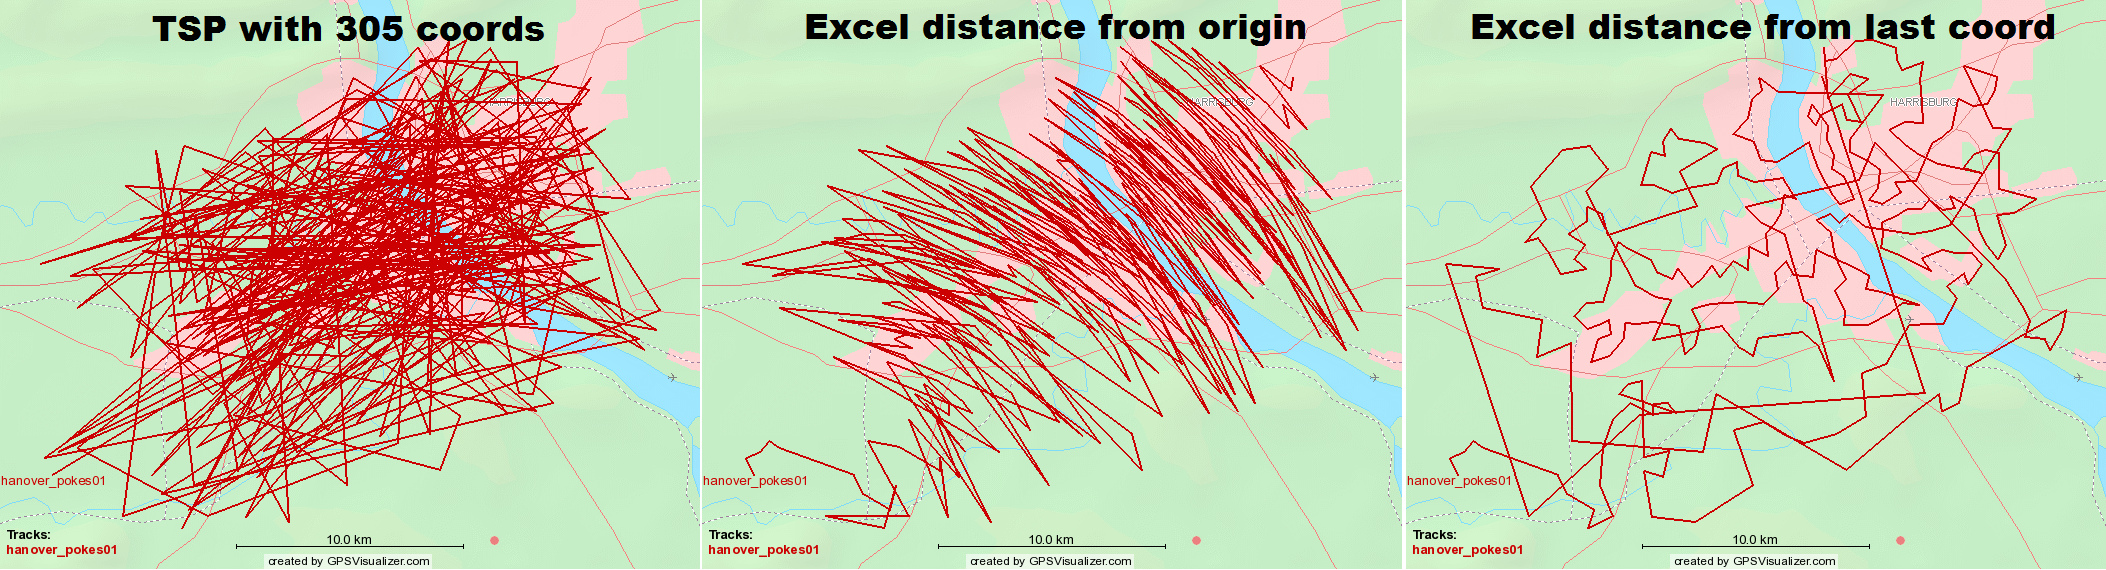
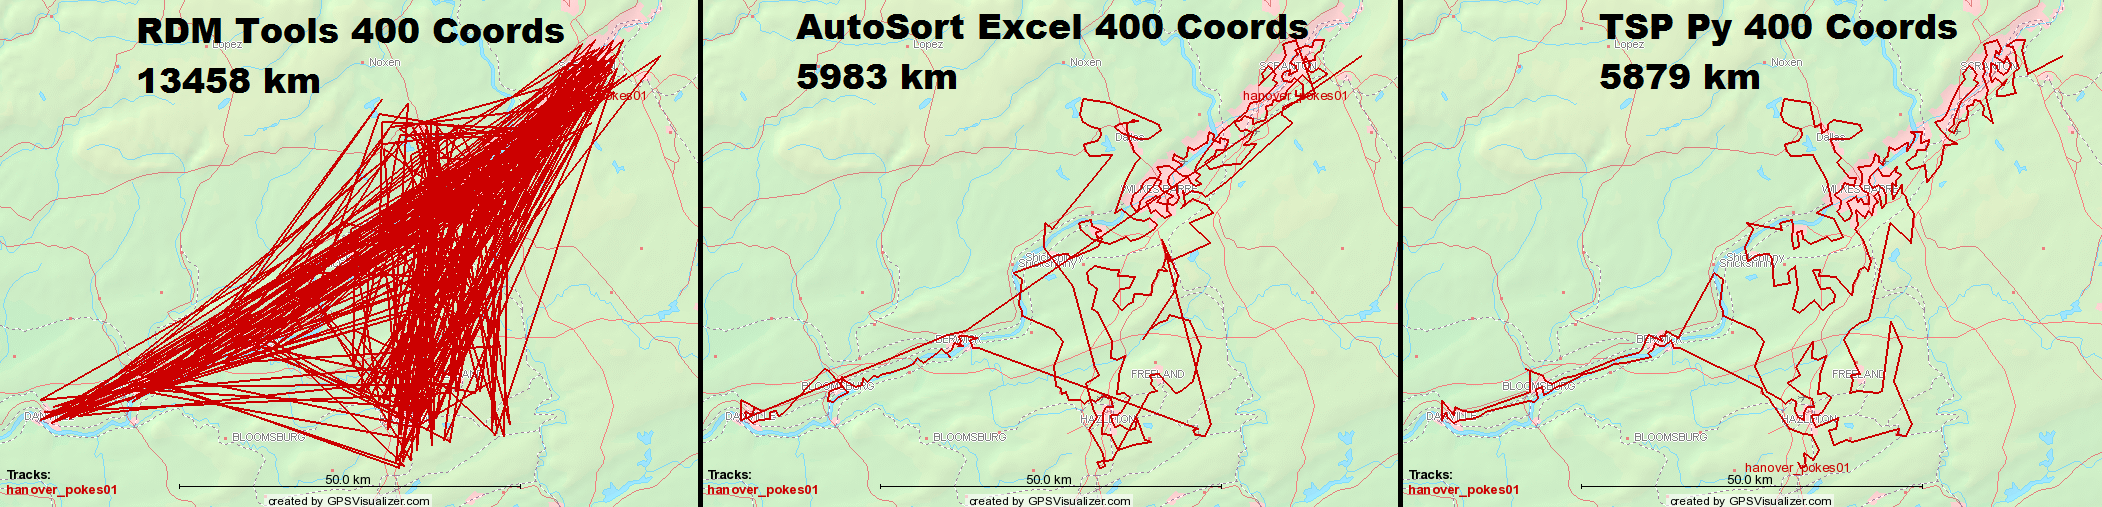
Removed the Excel related files and added the Python related files.

diff --git a/README.md b/README.md
@@ -1,28 +1,16 @@
-# AutoSortCoords
-An Excel VBS (Google Sheets JS) macro that will sort coordinates by their distance from the last coordinate to make the shortest route through a list or coordinates.
+# TSP Py
+A python script that will sort coordinates by using the TSP Solver module to make the shortest route through a list or coordinates. I did not write this script but I wanted to show it in this repository since it works better than my VBS macro. I did modified it slightly so it does not need Tkinter. 
 
-Proof of concent is shown in the image below. The first image is a path of 305 coordinates put through the TSP website. The second image is a path of the same coordinates if you sorted by distance based on the origin location. The last image is the path after you run the macro on the same coordinates.
+Proof of concent is shown in the image below. The first image is a path of 400 coordinates generated from RDM Tools. The second image is a path of the same coordinates using the AutoSortCoords macro. The last image is the path using the same coordinates and the pythong script.
 
-![alt text](https://raw.githubusercontent.com/Kneckter/AutoSortCoords/master/Proof.png)
+![alt text](https://raw.githubusercontent.com/Kneckterunun/AutoSortCoords/master/Proof.png)
+unun
+# Get Started With Python
+To get started using the python script, you can download the two files or `git clone` this repository branch. The script requires python's matplotlib for calculating the route.
 
-# Get Started With Excel
-To get started using the macro in Excel, you can download the XLSM file (macro enabled Excel file) from the release page. If you would like to import the macro yourself, you can create a new spreadsheet and record a dummy macro. Then edit the dummy and paste the contexts of the VBS file in this repository into the VBS editor.
-
-After you have the file setup, paste a copy of your coordinate pairs into column A of the spreadsheet. Then push Ctrl+a to start the macro. Once it is completed, copy the selected output into your program. Note that it takes about 70 seconds to process 1000 coordinate pairs on a 2 GHz dual core processor and that column C will be the same as A&B together.
-
-# Get Started With Google Sheets
-**Warning** You will be asked to provide access to your Google Drive if you create a copy of the sheet and try to run the macro. This is because the macro is an Apps Script that will be copied to your account separately from the sheet.
-
-To get started using the macro in Sheets, you can grab a copy of the workbook located at https://docs.google.com/spreadsheets/d/1D0Xczv-F4fBgtZw2uI8tw-2P54wOUDcNSFziIt1dKfg/edit?usp=sharing. 
-
-
-If you would like to import the macro yourself, you can create a new spreadsheet on your Google drive and record a dummy macro. Then edit the dummy and paste the contexts of the GS file in this repository into the script editor.
-
-After you have the file setup, paste a copy of your coordinate pairs into column A of the spreadsheet. Then push Ctrl+Alt+Shift+0 (because google is lame) to start the macro. Once it is completed, copy the selected output into your program. Note that it takes about 200 seconds to process 1000 coordinate pairs on Google Sheets and that column C will be the same as A&B together.
+Once you have the files on your system, create a text file of your coordinates named `infile.txt`. Then run the command `python tsp.py infile.txt > outfile.txt` to sort the coordinates and output them to outfile.txt. 
 
 ## Notes
-This has been tested on Windows running Excel 2007/2010/365 Business and Mac running Excel 2019. 
-
-It did not work on Windows running Excel 2003 and Mac running Excel 15.35 from 2017.
+This has been tested on Ubuntu 18.04 with Python2.7. 
 
 Thanks to http://www.gpsvisualizer.com/, you can upload your coordinates and get images like the ones in this post.
